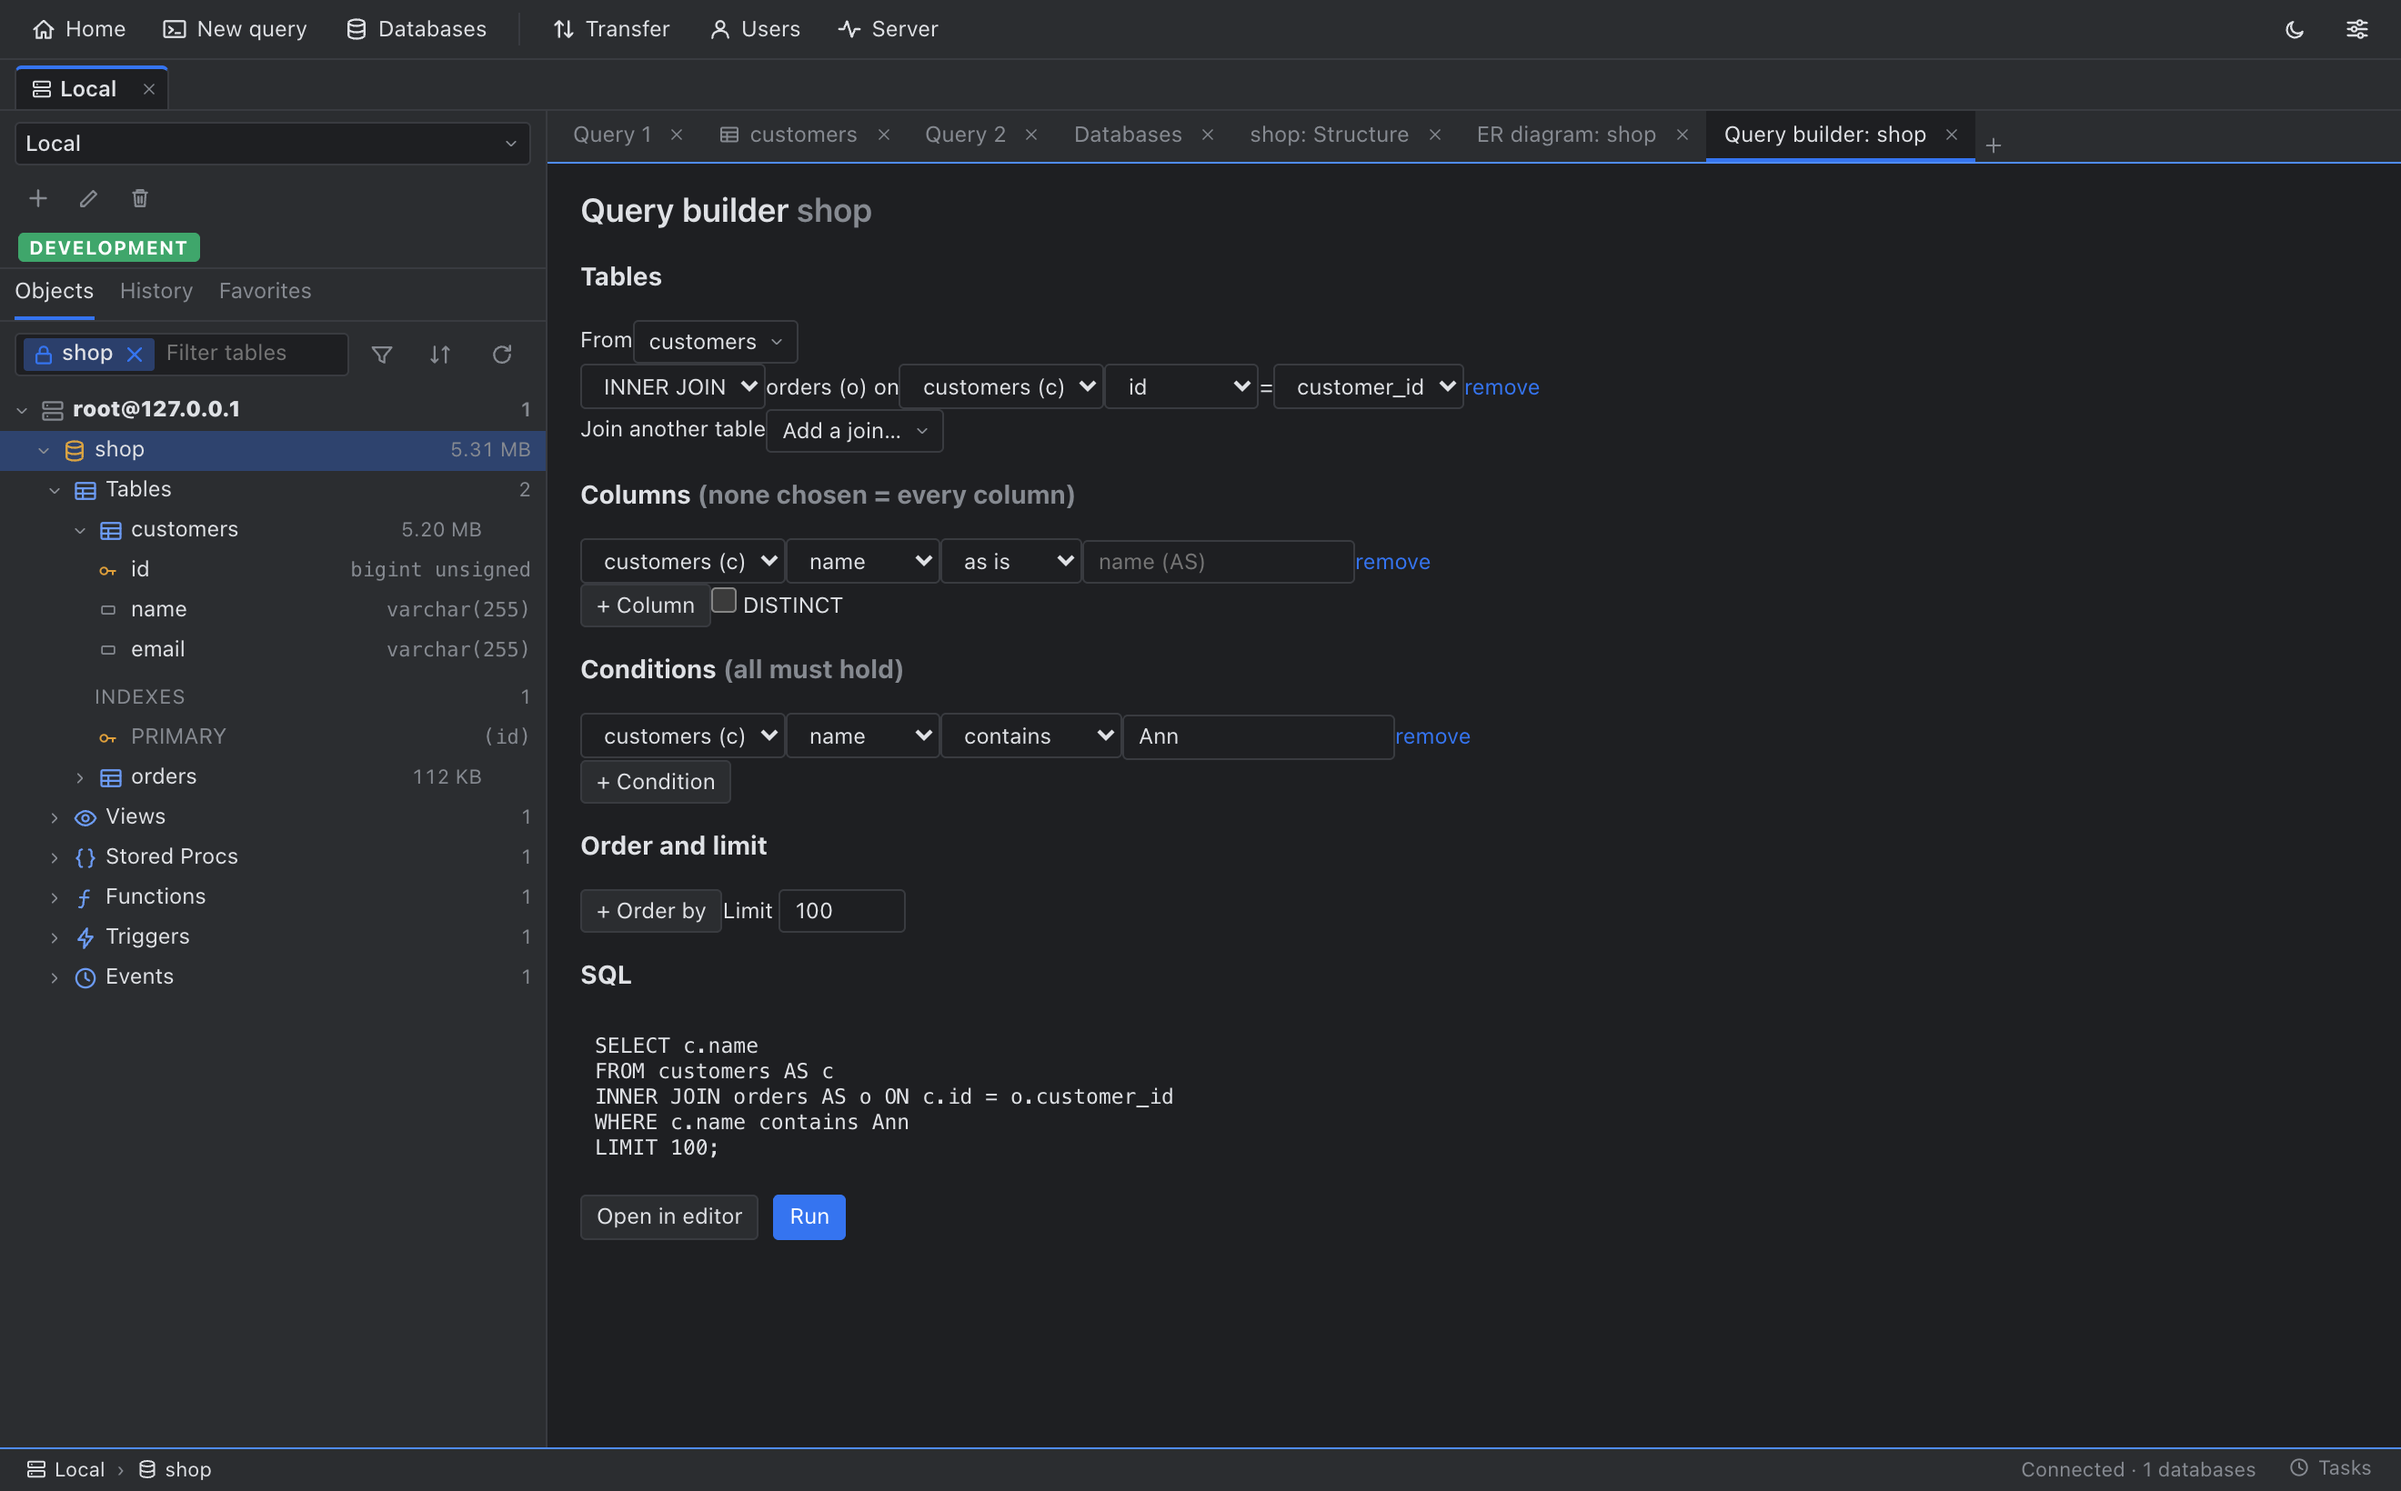
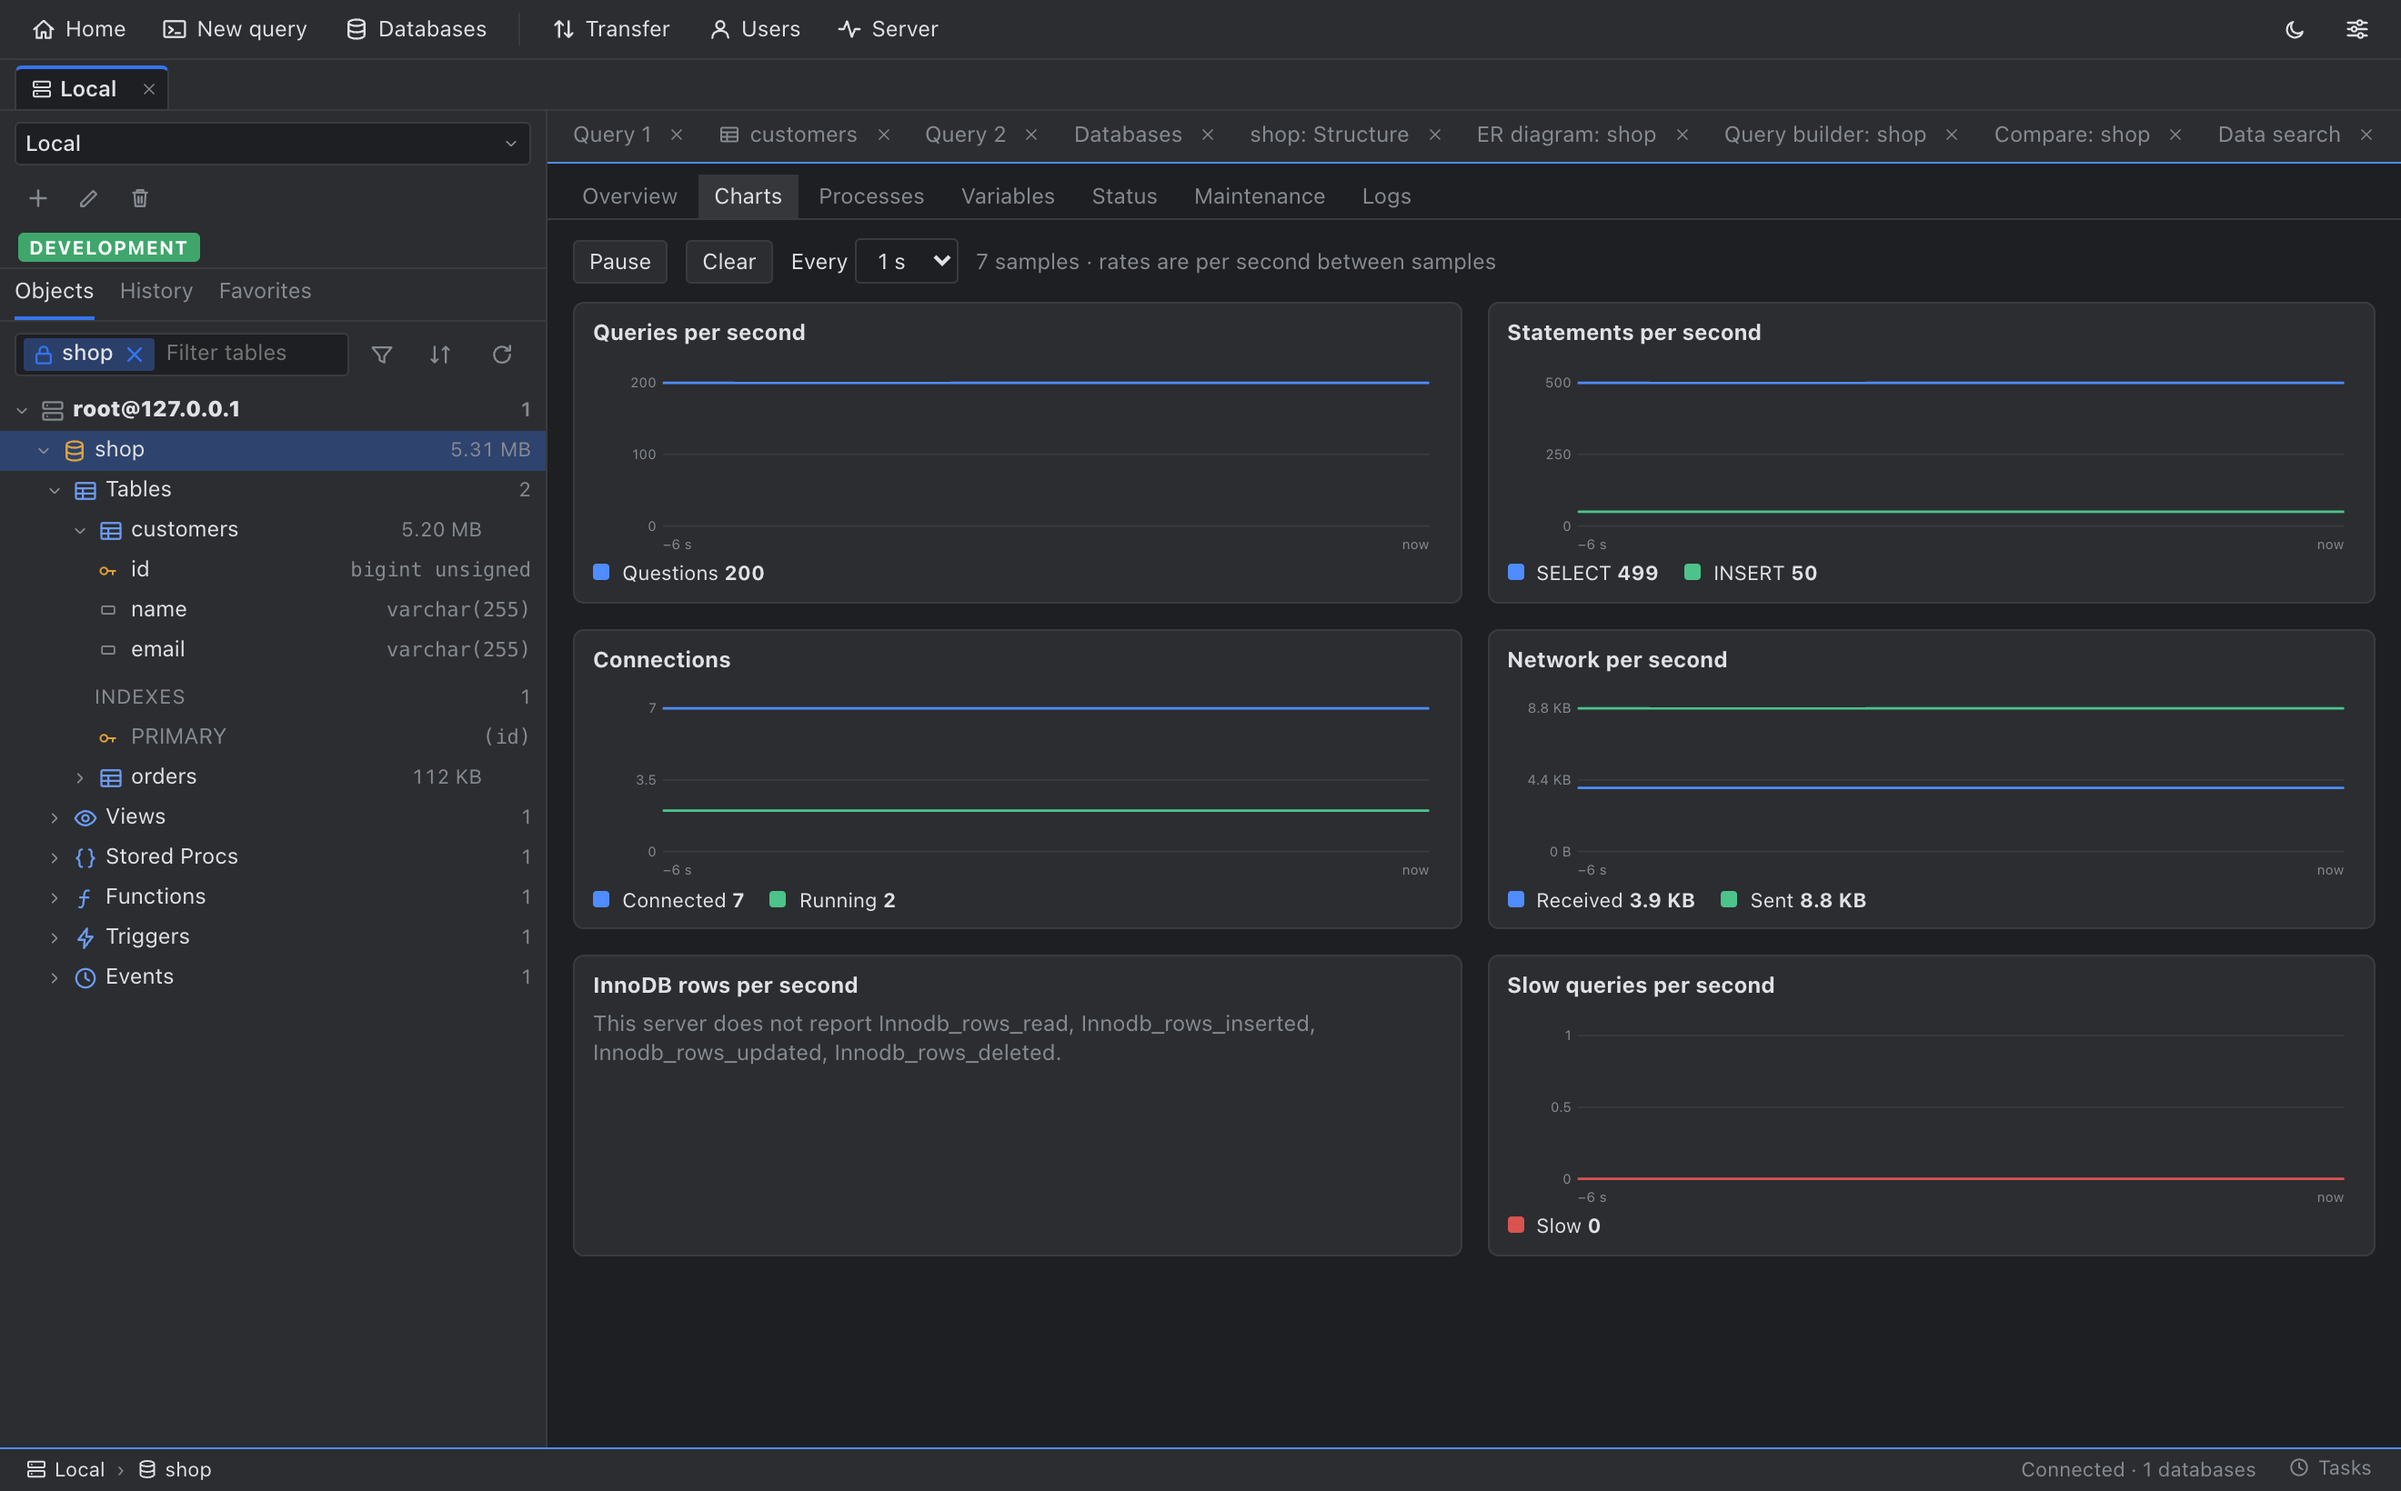
release: 0.3.0 (#14)
* release: 0.3.0 (visual query builder, ER diagram, schema compare, data search, index advisor, server charts, JSON import)

* docs: Phase 17 is partly done (no forward design yet)

diff --git a/apps/desktop/src/StatusCharts.tsx b/apps/desktop/src/StatusCharts.tsx
@@ -32,13 +32,18 @@ const fmt = (v: number, unit: ChartDef["unit"]) => {
 
 const POINTS = 150; // 5 minutes at 2 s
 
+const windowLabel = (s: number) => (s >= 90 ? `${Math.round(s / 60 * 10) / 10} min` : `${Math.round(s)} s`);
+
 function Chart({ def, data, seconds }: { def: ChartDef; data: Record<string, (number | null)[]>; seconds: number }) {
   const present = def.series.filter((x) => data[x.key]?.some((v) => v !== null));
   const [hover, setHover] = useState<number | null>(null);
   const W = 560, H = 130, L = 46, R = 8, T = 8, B = 18;
   const all = present.flatMap((x) => data[x.key].filter((v): v is number => v !== null));
-  const max = Math.max(1e-9, ...all) * 1.1;
-  const x = (i: number, len: number) => L + ((POINTS - len + i) / (POINTS - 1)) * (W - L - R);
+  // a flat zero series still gets a sensible 0..1 scale instead of ticks that all read 0.0
+  const max = Math.max(1, ...all) * 1.1;
+  // the line fills the width from the first two samples on; once POINTS samples exist the oldest scroll off the left
+  const span = Math.min(POINTS, Math.max(...present.map((p) => data[p.key].length), 2)) - 1;
+  const x = (i: number, len: number) => L + (i / span) * (W - L - R);
   const y = (v: number) => T + (1 - v / max) * (H - T - B);
   return (
     <div className="chart" data-chart={def.id}>
@@ -46,9 +51,9 @@ function Chart({ def, data, seconds }: { def: ChartDef; data: Record<string, (nu
       {present.length === 0 ? <div className="dim small">This server does not report {def.series.map((x) => x.key).join(", ")}.</div> : (
         <>
           <svg viewBox={`0 0 ${W} ${H}`} width="100%" onMouseLeave={() => setHover(null)}
-               onMouseMove={(e) => { const r = e.currentTarget.getBoundingClientRect(); const rel = ((e.clientX - r.left) / r.width) * W; const len = Math.max(...present.map((p) => data[p.key].length)); const i = Math.round(((rel - L) / (W - L - R)) * (POINTS - 1)) - (POINTS - len); setHover(i >= 0 && i < len ? i : null); }}>
+               onMouseMove={(e) => { const r = e.currentTarget.getBoundingClientRect(); const rel = ((e.clientX - r.left) / r.width) * W; const len = Math.max(...present.map((p) => data[p.key].length)); const sp = Math.min(POINTS, Math.max(len, 2)) - 1; const i = Math.round(((rel - L) / (W - L - R)) * sp); setHover(i >= 0 && i < len ? i : null); }}>
             {[0, 0.5, 1].map((f) => <g key={f}><line x1={L} x2={W - R} y1={y(max * f / 1.1)} y2={y(max * f / 1.1)} className="chart-grid" /><text x={L - 4} y={y(max * f / 1.1) + 3} textAnchor="end" className="chart-axis">{fmt(max / 1.1 * f, def.unit)}</text></g>)}
-            <text x={L} y={H - 3} className="chart-axis">−{Math.round(POINTS * seconds / 60 * 10) / 10} min</text>
+            <text x={L} y={H - 3} className="chart-axis">−{windowLabel(span * seconds)}</text>
             <text x={W - R} y={H - 3} textAnchor="end" className="chart-axis">now</text>
             {present.map((p) => {
               const vals = data[p.key];
@@ -60,7 +65,7 @@ function Chart({ def, data, seconds }: { def: ChartDef; data: Record<string, (nu
           <div className="chart-legend">
             {present.map((p) => {
               const vals = data[p.key];
-              const v = hover !== null ? vals[hover - (Math.max(...present.map((q) => data[q.key].length)) - vals.length)] : vals[vals.length - 1];
+              const v = hover !== null ? vals[hover] : vals[vals.length - 1];
               return <span key={p.key}><i style={{ background: p.color }} /> {p.label} <b data-legend={p.key}>{v === null || v === undefined ? "–" : fmt(v, def.unit)}</b></span>;
             })}
           </div>

diff --git a/README.md b/README.md
@@ -46,6 +46,8 @@ MyLoDB is for people who miss SQLyog on the Mac. It connects to MySQL and MariaD
 | **Users and privileges** | Create, rename, lock, drop; global, database, table and column privileges shown as the exact GRANT / REVOKE diff. |
 | **Server tools** | Live overview, process list (kill), variables, status, maintenance (CHECK / OPTIMIZE / REPAIR), logs. |
 | **Backup and import** | Consistent SQL backup (one file or per table, optional zip), restore with a script preview, CSV import with column mapping, export to CSV, JSON, JSON Lines, SQL, XML, HTML, Excel. |
+| **Visual tools** | A visual **query builder** (tables, joins from foreign keys, columns with functions, conditions, order, limit; the SQL is built and quoted by the backend) and a whole-database **ER diagram** (drag, zoom, filter, copy as Mermaid). |
+| **Analysis tools** | **Schema compare** (make one database match another, with Preview SQL), **data search** across every table, an **index advisor** (duplicate, redundant, missing foreign key indexes), live **server charts**, and **JSON / JSON Lines import**. |
 | **SQLite** | Open a `.sqlite` / `.db` file read-only: browse tables, views and triggers, run SQL, page, sort and filter the data grid. Features a file cannot have (users, server tools, backup) are disabled with the reason. |
 | **Connections** | Passwords in the macOS Keychain. SSH tunnels (host key confirmation), SSL modes, connect by URL, groups, several connections open at once. |
 | **Safe by default** | Environment badge and colour, server-enforced read-only, query time limit, row-estimate review of destructive SQL, type-to-confirm on production. No telemetry. |
@@ -57,7 +59,7 @@ Get the installer from the **[Releases page](https://github.com/farookhridoy/myl
 
 | Your computer | File |
 |---|---|
-| Mac with Apple Silicon (M1 and later) | `MyLoDB_0.2.0_aarch64.dmg` |
+| Mac with Apple Silicon (M1 and later) | `MyLoDB_0.3.0_aarch64.dmg` |
 
 An Intel build and a signed build are on the [roadmap](docs/ROADMAP.md). Not sure which Mac you have? Apple menu → **About This Mac**.
 
@@ -126,7 +128,7 @@ Single runs on one machine, so treat them as indications. The method, the limits
 
 ## Status
 
-Version **0.2.0** adds SQLite files (read-only) and fixes MariaDB 10.11 / 11.4. Version 0.1.0 was the first public release. Phases 1 to 13 of the [roadmap](docs/ROADMAP.md) are done: connection manager, object browser, SQL editor, data grid, table designer, users, server tools, backup and import, production safety, large-table engine, admin console, shell and preferences, workspace features. The Rust suite passes in CI on MySQL 8.0, 8.4 and 9 and MariaDB 10.11 and 11.4, and locally on MySQL 9.7 and MariaDB 13. MySQL 5.7 still fails some integration tests and is unsupported ([details](docs/SERVER_COMPATIBILITY.md)). Not yet: SQLite editing, PostgreSQL and SQL Server (design and progress in [docs/ENGINE_ABSTRACTION.md](docs/ENGINE_ABSTRACTION.md)), Windows and Linux builds, and a signed and notarised build.
+Version **0.3.0** adds a visual query builder, an ER diagram, schema compare, data search, an index advisor, server charts and JSON import. 0.2.0 added SQLite files (read-only) and fixed MariaDB 10.11 / 11.4; 0.1.0 was the first public release. Phases 1 to 13 and most of 16 and 17 of the [roadmap](docs/ROADMAP.md) are done: connection manager, object browser, SQL editor, data grid, table designer, users, server tools, backup and import, production safety, large-table engine, admin console, shell and preferences, workspace features. The Rust suite passes in CI on MySQL 8.0, 8.4 and 9 and MariaDB 10.11 and 11.4, and locally on MySQL 9.7 and MariaDB 13. MySQL 5.7 still fails some integration tests and is unsupported ([details](docs/SERVER_COMPATIBILITY.md)). Not yet: SQLite editing, PostgreSQL and SQL Server (design and progress in [docs/ENGINE_ABSTRACTION.md](docs/ENGINE_ABSTRACTION.md)), Windows and Linux builds, and a signed and notarised build.
 
 ## Build it yourself
 

diff --git a/docs/ROADMAP.md b/docs/ROADMAP.md
@@ -1,6 +1,6 @@
 # MyLoDB roadmap: what is done, what must be done, what would be nice
 
-Status of 2026-11-21. This is the single page for "where are we": phases, what is done, what is left, and (sections 5 to 8) the
+Status of 2026-11-21 (version 0.3.0). This is the single page for "where are we": phases, what is done, what is left, and (sections 5 to 8) the
 coverage of the SQLyog reference and the product plan. It replaces the former `PLAN_VS_CURRENT.md`. Other docs: `ANALYSIS.md` (original
 scope, stack, architecture), `BENCHMARKS.md` (Phase 10 measurements), `PHPMYADMIN_AND_ENGINES.md` (analysis behind phases 11 to 15),
 `SERVER_COMPATIBILITY.md` (MySQL / MariaDB results).
@@ -115,9 +115,9 @@ The analysis, screen mapping and design of these items are in `PHPMYADMIN_AND_EN
 | 12 ✅ | **Shell and preferences** (done) | top menu bar and toolbar, Preferences (fonts per area, themes), command palette | 2 to 3 wk |
 | 13 ✅ | **Workspace parity** (done, small leftovers in the nice-to-have list) | `.sql` files, snippets, text results, connection tabs and groups, Info panel, alter database, drag into editor | 2 to 3 wk |
 | 14 🟡 | **Quality gates** (built; first green CI run on GitHub still to confirm) | CI, Tasks panel, MySQL 5.7 / 8.0 / 8.4 / 9 and MariaDB matrix, network-drop tests | 1 to 2 wk |
-| 15 ❌ | **Database engines** | driver abstraction; PostgreSQL, SQLite, SQL Server; Oracle only on demand | 8 to 12 wk |
-| 16 ❌ | **Power tools** | compare and sync, Data Search, import formats, charts, inspections | 4 to 5 wk |
-| 17 ❌ | **Visual tools** | query builder, whole-database ER designer | 4 to 5 wk |
+| 15 🟡 | **Database engines** | done: `myq-core`, the `Backend` trait, SQLite read-only (see ENGINE_ABSTRACTION.md). Open: SQLite writes, PostgreSQL, SQL Server; Oracle only on demand | 8 to 12 wk |
+| 16 🟡 | **Power tools** | done in 0.3.0: schema compare, data search, index advisor, server charts, JSON import. Open: data compare and sync, copying a database between connections, saved transfer configurations, XLSX / XML import, SQL inspections | 4 to 5 wk |
+| 17 🟡 | **Visual tools** | done in 0.3.0: visual query builder, whole-database ER diagram (reverse engineering). Open: forward design, i.e. editing the diagram to generate DDL | 4 to 5 wk |
 | 18 ❌ | **Beta release** | signing, Intel build, Homebrew cask, documentation | 1 to 2 wk |
 
 Why this order: phase 11 is what you asked for next and what makes MyLoDB usable the way phpMyAdmin is. Phase 14 sits before the extra engines

diff --git a/CHANGELOG.md b/CHANGELOG.md
@@ -1,6 +1,6 @@
 # Changelog
 
-## Unreleased
+## 0.3.0 (2026-11-21)
 
 **Added**
 <<<<<<< HEAD
@@ -13,6 +13,16 @@
 * **ER diagram** of a whole database (database context menu, SQL Editor menu): tables by foreign-key depth, drag, zoom, filter, open a table, copy as Mermaid.
 * **Visual query builder** (database context menu, SQL Editor menu): tables, joins from foreign keys, columns with functions, conditions, order and limit, with the SQL built by the backend and opened or run in a query tab.
 * **Compare schemas** (database context menu): make a database's tables match another database's, on the same or another open connection. Differences are listed per table with their SQL; drops are never pre-selected; Preview SQL shows the exact script.
+
+**Fixed**
+* Server charts draw across the whole width from the first samples and show a sensible scale for a flat zero series.
+
+**Internal**
+* A check (`npm run check:e2e-list`) fails when a UI suite is not part of `npm run e2e`; two suites were not running in CI before.
+
+**Known limits**
+* Not done from the roadmap's Phase 16: comparing the *data* of two tables, copying a database between connections, saved and re-runnable transfer configurations, XLSX and XML import, SQL inspections (the index advisor is the first of these). The ER diagram and the server charts need a MySQL or MariaDB connection (not a SQLite file) and were only checked on small demo data.
+* SQLite is still read-only. Unsigned and not notarised; Apple Silicon only. MySQL 5.7 is unsupported.
 
 ## 0.2.0 (2026-11-21)
 

diff --git a/docs/MANUAL.md b/docs/MANUAL.md
@@ -1,6 +1,6 @@
 # MyLoDB user manual
 
-Version 0.2.0. The same text is inside the app: **Help → User Manual**. Screenshots show the real interface running on demo data (a fake `shop` database), not a real server.
+Version 0.3.0. The same text is inside the app: **Help → User Manual**. Screenshots show the real interface running on demo data (a fake `shop` database), not a real server.
 
 ## Contents
 
@@ -19,7 +19,7 @@ Version 0.2.0. The same text is inside the app: **Help → User Manual**. Screen
 
 ## 1. Install and first launch
 
-Download `MyLoDB_0.2.0_aarch64.dmg` from the [Releases page](https://github.com/farookhridoy/mylodb/releases/latest) (Mac with Apple Silicon) and drag **MyLoDB** into **Applications**.
+Download `MyLoDB_0.3.0_aarch64.dmg` from the [Releases page](https://github.com/farookhridoy/mylodb/releases/latest) (Mac with Apple Silicon) and drag **MyLoDB** into **Applications**.
 
 MyLoDB is not signed with a paid Apple Developer certificate, so macOS warns you the first time. This is expected, and you do it once:
 
